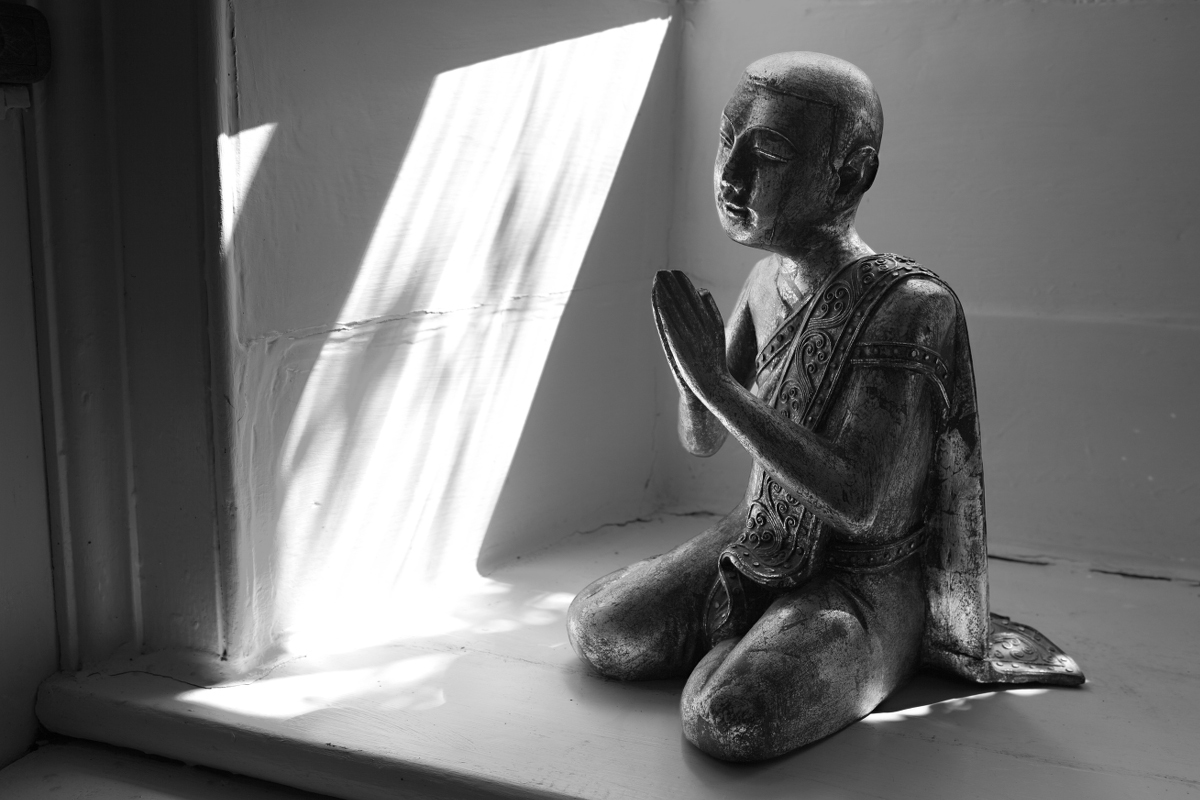
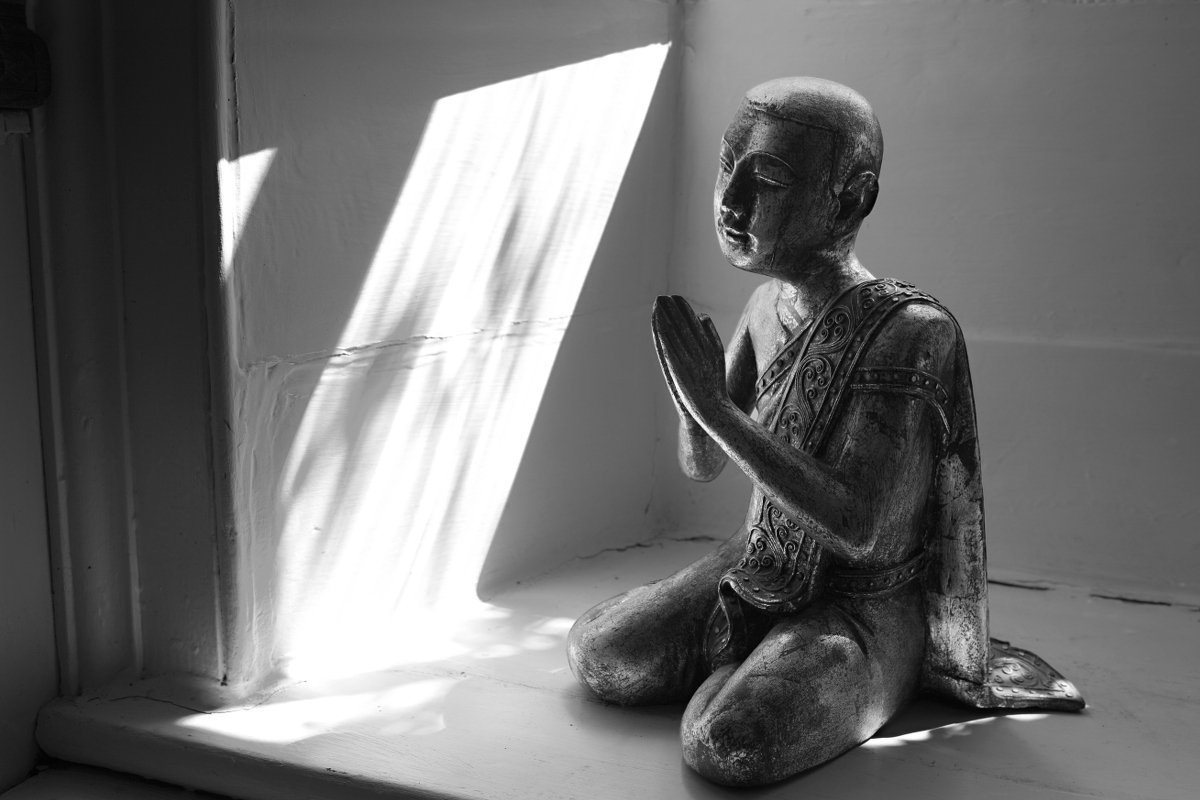
cover update with clone at the top

diff --git a/build/latex/book_main.tex b/build/latex/book_main.tex
@@ -9,8 +9,7 @@
 \subtitle{52 verses from the Dhammapada with comments}
 \author{Ajahn Munindo}
 \date{}
-% TODO number of copies
-\editionInfo{\textit{First edition}, \ldots\ copies, printed in Malaysia, 2015}
+\editionInfo{\textit{First edition}, 8,000 copies, printed in Malaysia, 2015}
 \ISBN{978-1-908444-50-9}
 
 \hyphenation{prep-a-ra-tion belief attrac-tive under-stand-ing moment}

diff --git a/build/latex/cover_front.tex b/build/latex/cover_front.tex
@@ -84,7 +84,7 @@ hmargin=0pt
 \end{minipage}%
 }%
 
-\JoinCoffins*\CoverWrap[hc,t]\Photo[hc,t](0pt,\baselineskip+\bleed)%
+\JoinCoffins*\CoverWrap[hc,t]\Photo[hc,b](0pt,-57.5mm)%
 \JoinCoffins*\CoverWrap[hc,t]\Title[hc,t](0pt,-60mm)%
 \JoinCoffins*\CoverWrap[hc,t]\Author[hc,t](0pt,-98mm)%
 \makeatother
